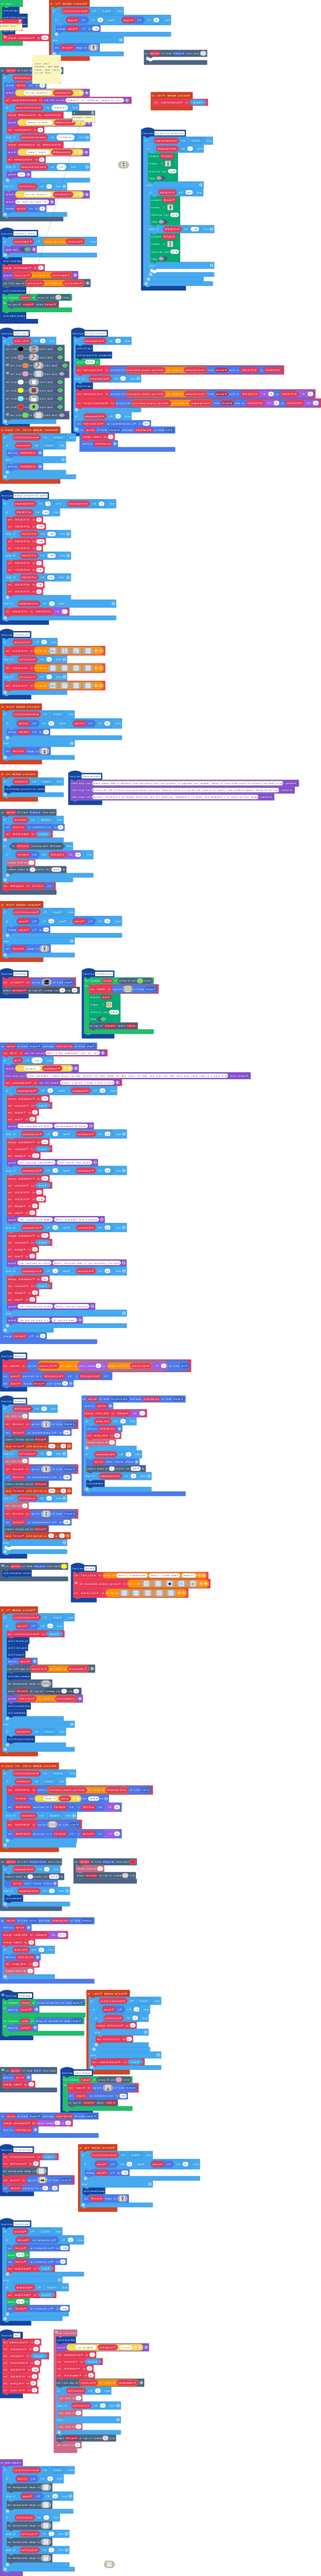
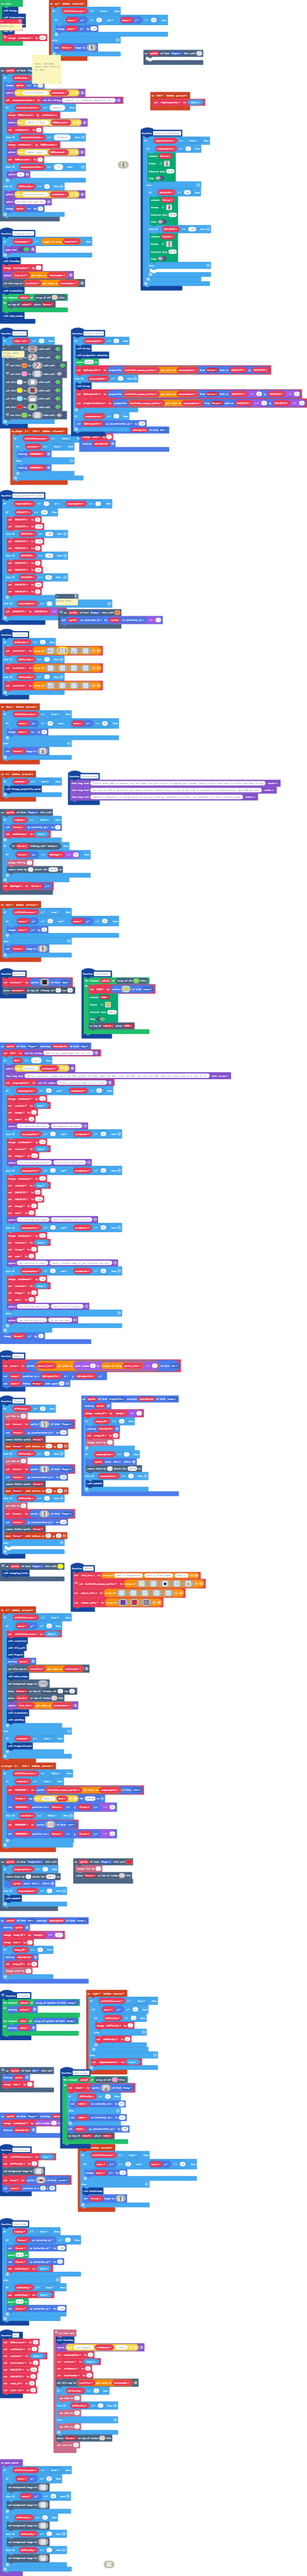
save1

diff --git a/main.ts b/main.ts
@@ -33,7 +33,7 @@ controller.up.onEvent(ControllerButtonEvent.Released, function () {
     }
 })
 /**
- * note: edit enemies, add ammo count, edit lvels to fit fbla
+ * note:  add ammo count, edit lvels to fit fbla
  */
 scene.onHitTile(SpriteKind.Player, 9, function (sprite) {
     if (difficulty < 2) {
@@ -326,7 +326,7 @@ e e e e e 1 d d d d d d d 1 e e
 e e e e e 1 d d d d d d d 1 e e 
 1 1 1 1 1 1 1 1 1 1 1 1 1 1 1 1 
 `, true)
-        // changes robot position
+        // changes robot velocty x
         scene.setTile(4, img`
 d 1 e e e e e e e 1 d d d d d d 
 d 1 e e e e e e e 1 d d d d d d 
@@ -510,14 +510,14 @@ function LevelsList () {
 . . . . . . . . . . . . . . . . . . . . . . . . . . . . . . . . 
 . . . . . . . . . . . . . . . . . . . . . . . . . . . . . . . . 
 . . . . . . . . . . . . . . . . . . . . . . . . . . . . . . . . 
-. . . . . . 7 3 7 3 7 . . . . . . . . . . . . . . . . . . . . . 
-. . . . . b b b b b b b . . . . . . . . . . . . . . . . . . . . 
-. . . . . b b b b b b b . . . . . . . . . . . . . . . . . . . . 
-. . . . . b 1 b b b 1 b . . . . . . . . . . . . . . . . . . . . 
-. . . . . b b b b b b b . . . . . . . 3 3 . . . . . . . . . . . 
-. . . . . b 1 b b b 1 b . . . . . 7 b b b b 7 . . . . . . . . . 
+. . . . . . 7 7 3 7 7 . . . . . . . . . . . . . . . . . . . . . 
+. . . . . 4 b b b b b 4 . . . . . . . . . . . . . . . . . . . . 
+. . . . . b b b b b b b . . . . . . . 7 7 . . . . . . . . . . . 
+. . . . . . . . . . . . . . . . . . . . . . . . . . . . . . . . 
+. . . . . b b b b b b b . . . . . 7 . 3 . . 7 . . . . . . . . . 
+. . . . . b 1 b b b 1 b . . . . . 4 b b b b 4 . . . . . . . . . 
 . . . . . b b b b b b b . . . . . b b b b b b . . . . . . . . . 
-. . . . . b 1 b b b 1 b . . . . . b 1 b b 1 b . . . . . . . . . 
+. . . . . b 1 b b b 1 b . . . . . . . . . . . . . . . . . . . . 
 . . . . . b b b b b b b . . . . . b 1 b b 1 b . . . . . . . . . 
 . . . . . b 1 b b b 1 b . . . . . b 1 b b 1 b . . . . . . . . . 
 . . . . . b b b b b b b . . . . . b 1 b b 1 b . . . . . . . . . 
@@ -558,8 +558,8 @@ f f f f f f f f f f f f f f f f f f f f f f f f f f f f f f f f
 . . . . b . . 2 . . . b . . . . 
 . . . . b . . 2 . . b b . . . . 
 . . 7 . b . b b . . . . . . . . 
-. . . . b . 9 b . . . . . . . . 
-d . . . b b b b b b b b b b 2 b 
+. . . . b . 9 4 . . . 3 . . . . 
+d . . . b b b b b b b b b b 2 4 
 `, img`
 . . . . . . . . . . . . . . . . . . . . . . . . . . . 
 . . . . . . . . . . . . . . . . . . . . . . . . . . . 
@@ -693,26 +693,36 @@ f f f f f f f f . . . . . . . . . . . . . . . . . . .
 `]
     } else if (difficulty == 2) {
         LevelList = [img`
-. . . . . . . . . . . . . . . . . . . . . . . . . . . . . . . . 
-. . . . . . . . . . . . . . . . . . . . . . . . . . . . . . . . 
-. . . . . . . . . . . . . . . . . . . . . . . . . . . . . . . . 
-. . . . . . 7 . 7 . 7 . . . . . . . . . . . . . . . . . . . . . 
-. . . . . b b b b b b b . . . . . . . . . . . . . . . . . . . . 
-. . . . . b b b b b b b . . . . . . . . . . . . . . . . . . . . 
-. . . . . b 1 b b b 1 b . . . . . . . . . . . . . . . . . . . . 
-. . . . . b b b b b b b . . . . . . . . . . . . . . . . . . . . 
-. . . . . b 1 b b b 1 b . . . . . 7 b b b b 7 . . . . . . . . . 
-. . . . . b b b b b b b . . . . . b b b b b b . . . . . . . . . 
-. . . . . b 1 b b b 1 b . . . . . b 1 b b 1 b . . . . . . . . . 
-. . . . . b b b b b b b . . . . . b 1 b b 1 b . . . . . . . . . 
-. . . . . b 1 b b b 1 b . . . . . b 1 b b 1 b . . . . . . . . . 
-. . . . . b b b b b b b . . . . . b 1 b b 1 b . . . . . . . . . 
-. . . . . b 1 b b b 1 b . . . . . b b b b b b . . . . . . . . f 
-. . 7 7 . b b b 5 b b b . . . . b b b 5 5 b b b . . . . . . . 5 
-d . 7 7 . b b b 5 b b b 7 . . . 9 b b 5 5 b b . . . 7 . . 7 . 5 
-f f f f f f f f f f f f f f f f f f f f f f f f f f f f f f f f 
-. . . . . . . . . . . . . . . . . . . . . . . . . . . . . . . . 
-. . . . . . . . . . . . . . . . . . . . . . . . . . . . . . . . 
+. . . . . . . . . . . . . . . . . . . . . . . . . . . . . . . . . . . . . . . . . . 
+. . . . . . . . . . . . . . . . . . . . . . . . . . . . . . . . . . . . . . . . . . 
+. . . . . . . . . . . . . . . . . . . . . . . . . . . . . . . . . . . . . . . . . . 
+. . . . . . . . . . . . . . . . . . . . . . . . . . . . . . . . . . . . f . . . . . 
+. . . . . . . . . . . . . . . . . . . . . . . . . . . . . . . . . . . . 5 . . . . . 
+. . . . . . . . . . . . . . . . . . . . . . . . . . . . . . . . b b b b b b . . . . 
+. . . . . . . . . . . . . . . . . . . . . . . . . . . . . . . . b b b b b b . . . . 
+. . . . . . . . . . . . . . . . . . . . . . . . . . . . . . . . . . . . 1 b . . . . 
+. . . . . . . . . . . . . . . . . . . . . . . . . . . . . . . . . 7 . . 1 b . . . . 
+. . . . . . . . . . . . . . . . . . . . . . . . . . . . . . . . b b . . b b . . . . 
+. . . . . . . . . . . . . . . . b . . . . . . . . . . . . . . . b 1 . 7 1 b . . . . 
+. . . . . . . . . . . . . . . . . b b b b b b b b b b b . . . . b 1 . . 1 b . . . . 
+. . . . . . . . . . . . . . . . . . b b b b b b b b b . . . . . b b 7 . b b . . . . 
+. . . . . . . . . . . . . . . . . . . b b b b b b b . . . . . . b 1 . . 1 b . . . . 
+. . . . . . . . . . . . . . . . . . . . b b b b b . . . . . . . b 1 . 7 1 b . . . . 
+. . . . . . 7 . . . . . . 7 . . . . . . . b b b . . . . . . . . b b . . b b . . . . 
+. . . . . b b b . . . . b b b . . . . . . . b . . . . . . . . . b 1 7 . 1 b . . . . 
+. . . . . b b b . . . . b b b . . . . . . . . b b . . . . . . . b 1 . . 1 b . . . . 
+. . . . . b 1 b . . . . b 1 b . . . . . . . . . b b . . . . . . b b . 7 b b . . . . 
+. . . . . b b b . . . . b b b . . . . . . . . . . b b . . . . . . . . . . . . . . . 
+. . . . . b 1 b . . . . b 1 b . . 7 b . . b 7 . . . b b . . . . . . . . . . . . . . 
+. . . . . b b b . . . . b b b . . b b . . b b . . . . b . . 2 2 b b b b b b . . . . 
+. . . . . b 1 b . . . . b 1 b . . b 1 . . 1 b . . . . . . . 2 2 b 1 1 1 1 b . . . . 
+. . . . . b b b . . . . b b b . . b 1 . . 1 b . . . b b b b 2 2 b 1 1 1 1 b . . . . 
+. . . . . b 1 b . . . . b 1 b . . b 1 . . 1 b . . . b 1 1 b 2 2 b b b b b b . . . . 
+. . . . . b b b . . . . b b b . . b 1 . . 1 b . . . b b b b 2 2 b 1 1 1 1 b . . . . 
+. . . . . b 1 b b . . b b 1 b . . b b . . b b . . . b 1 1 b 2 2 b 1 1 1 1 b . . . . 
+d . 7 7 . b b b b . . b b b b . b b b . . b b . . . b b b b 2 2 b 1 1 1 1 b . . . . 
+b b b b b b b b 5 b b 5 b b b 7 9 b b . . b b . . . b 1 1 b 2 2 b b b b b b . . . . 
+2 2 2 2 2 2 2 2 2 2 2 2 2 2 2 b 2 2 2 2 2 2 2 2 2 2 2 2 2 2 2 2 1 1 1 1 1 1 . . . . 
 `, img`
 . . . . . . . . . . . . . . . . 
 . . . . . . . . . . . . . . . . 
@@ -1491,6 +1501,58 @@ function Arrays () {
 . . . . . . . . . . . . . . . . 
 . . . . . . . . . . . . . . . . 
 `]
+    random_spike = [img`
+f f f f f f f f f f f f f f f f 
+f a a a a a a a a a a a a a a f 
+f a a a a a a a a a a a a a a f 
+f a a a a a a a a a a a a a a f 
+f a a a a a a a a a a a a a a f 
+f a a a a a a a a a a a a a a f 
+f a a a a a a a a a a a a a a f 
+f a a a a a a a a a a a a a a f 
+f a a a a a a a a a a a a a a f 
+f a a a a a a a a a a a a a a f 
+f a a a a a a a a a a a a a a f 
+f a a a a a a a a a a a a a a f 
+f a a a a a a a a a a a a a a f 
+f a a a a a a a a a a a a a a f 
+f a a a a a a a a a a a a a a f 
+f f f f f f f f f f f f f f f f 
+`, img`
+f f f f f f f f f f f f f f f f 
+f 2 2 2 2 2 2 2 2 2 2 2 2 2 2 f 
+f 2 2 2 2 2 2 2 2 2 2 2 2 2 2 f 
+f 2 2 2 2 2 2 2 2 2 2 2 2 2 2 f 
+f 2 2 2 2 2 2 2 2 2 2 2 2 2 2 f 
+f 2 2 2 2 2 2 2 2 2 2 2 2 2 2 f 
+f 2 2 2 2 2 2 2 2 2 2 2 2 2 2 f 
+f 2 2 2 2 2 2 2 2 2 2 2 2 2 2 f 
+f 2 2 2 2 2 2 2 2 2 2 2 2 2 2 f 
+f 2 2 2 2 2 2 2 2 2 2 2 2 2 2 f 
+f 2 2 2 2 2 2 2 2 2 2 2 2 2 2 f 
+f 2 2 2 2 2 2 2 2 2 2 2 2 2 2 f 
+f 2 2 2 2 2 2 2 2 2 2 2 2 2 2 f 
+f 2 2 2 2 2 2 2 2 2 2 2 2 2 2 f 
+f 2 2 2 2 2 2 2 2 2 2 2 2 2 2 f 
+f f f f f f f f f f f f f f f f 
+`, img`
+f f f f f f f f f f f f f f f f 
+f b b b b b b b b b b b b b b f 
+f b b b b b b b b b b b b b b f 
+f b b b b b b b b b b b b b b f 
+f b b b b b b b b b b b b b b f 
+f b b b b b b b b b b b b b b f 
+f b b b b b b b b b b b b b b f 
+f b b b b b b b b b b b b b b f 
+f b b b b b b b b b b b b b b f 
+f b b b b b b b b b b b b b b f 
+f b b b b b b b b b b b b b b f 
+f b b b b b b b b b b b b b b f 
+f b b b b b b b b b b b b b b f 
+f b b b b b b b b b b b b b b f 
+f b b b b b b b b b b b b b b f 
+f f f f f f f f f f f f f f f f 
+`]
 }
 controller.A.onEvent(ControllerButtonEvent.Pressed, function () {
     if (stilltitlescreen == true) {
@@ -1625,6 +1687,7 @@ b b b b b b b b b b b b b b b b b b b b b b b b b b b b b b b b b b b b b b b b 
 b b b b b b b b b b b b b b b b b b b b b b b b b b b b b b b b b b b b b b b b b b b b b b b b b b b b b b b b b b b b b b b b b b b b b b b b b b b b b b b b b b b b b b b b b b b b b b b b b b b b b b b b b b b b b b b b b b b b b b b b b b b b b b b b b b b b b b b b b b b b b b b b b b b b b b b b b b b b b b b b 
 `)
             tiles.placeOnTile(Person, tiles.getTileLocation(0, 16))
+            scene.placeOnRandomTile(Person, 13)
             game.splash(Task_List[levelnumber])
             CreateCoins()
             makeShop()
@@ -1733,13 +1796,22 @@ function make_enemys () {
 . . . f b . b . b . b . b f . . 
 . . . . f f f f f f f f f . . . 
 `, SpriteKind.Enemy)
-        robot.vx = 100
+        if (difficulty == 0) {
+            robot.vx = 85
+        } else {
+            robot.vx = 110
+        }
+        robot.ay = 300
         scene.place(value5, robot)
     }
 }
 sprites.onOverlap(SpriteKind.Player, SpriteKind.money, function (sprite, otherSprite) {
     cashAmount += Math.randomRange(5, 10)
     otherSprite.destroy()
+})
+// moving enemy
+scene.onHitTile(SpriteKind.Enemy, 4, function (sprite) {
+    sprite.vx = sprite.vx * -1
 })
 function Title_Screen () {
     stilltitlescreen = true
@@ -2029,6 +2101,7 @@ info.onLifeZero(function () {
     info.setScore(0)
 })
 let robot: Sprite = null
+let random_spike: Image[] = []
 let enemy_HP = 0
 let pieces_list: Image[] = []
 let piece: Sprite = null
